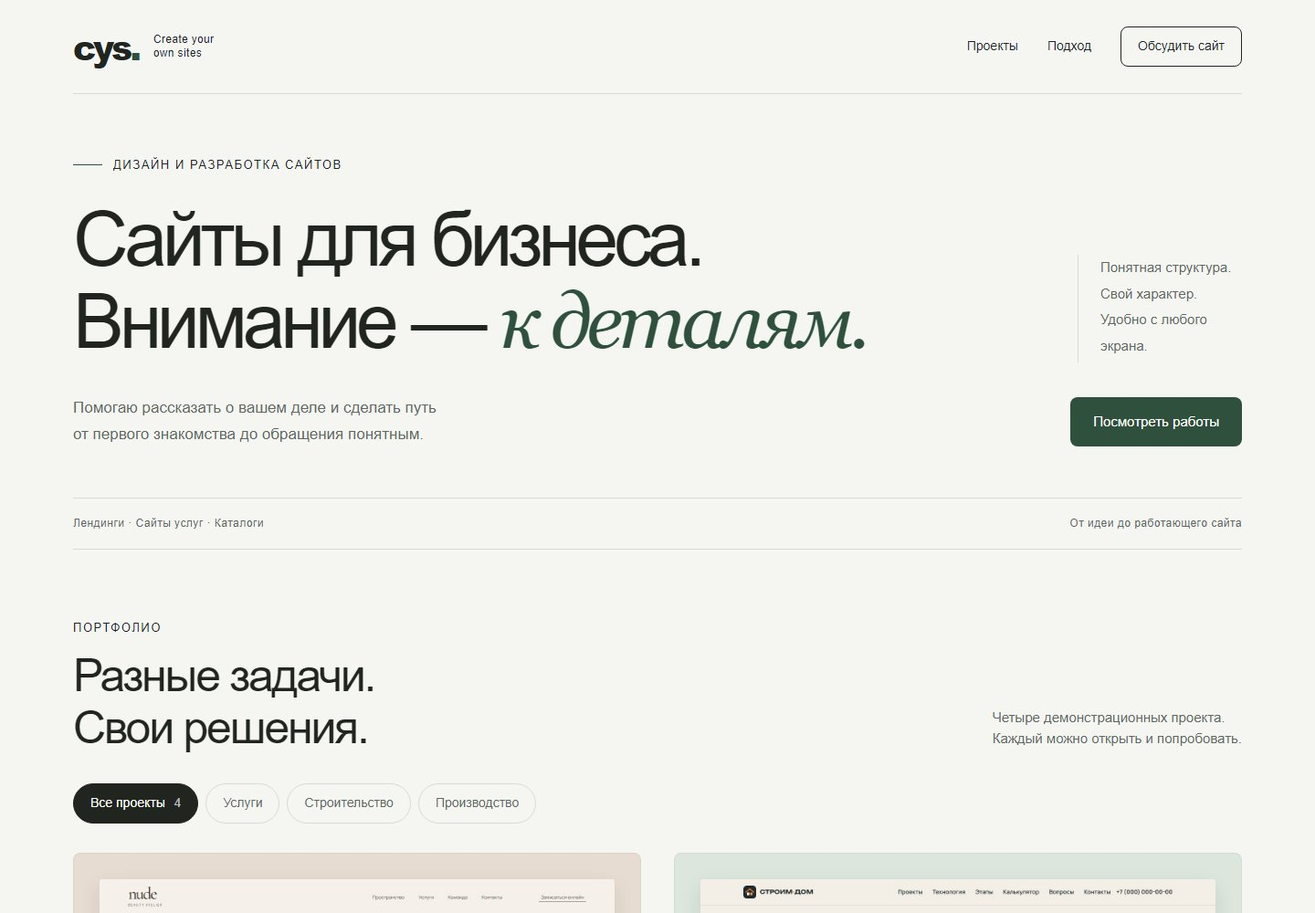
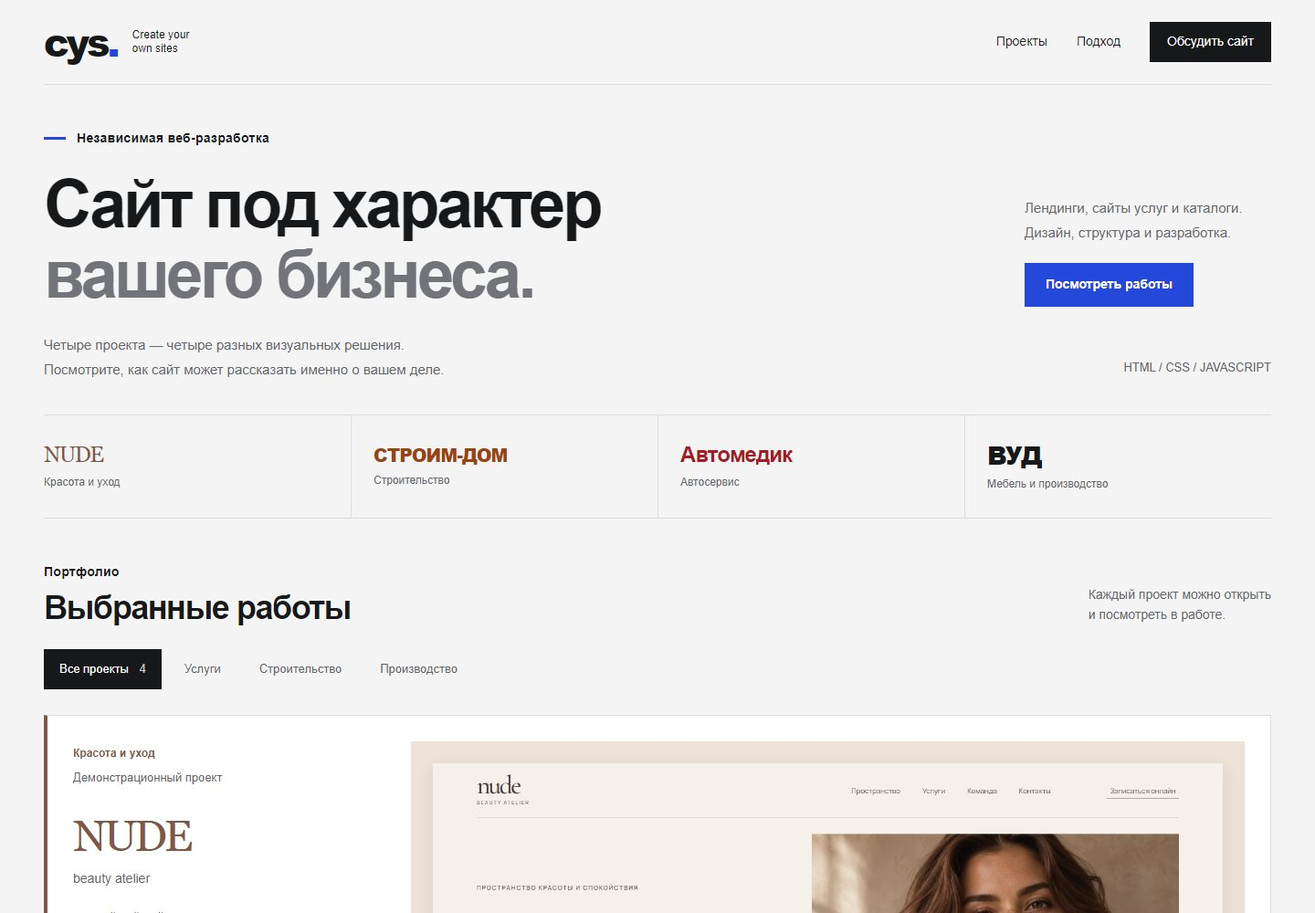
Give each portfolio project a distinct presentation and readable labels

diff --git a/styles.css b/styles.css
@@ -1,5 +1,13 @@
-:root{--paper:#f5f6f2;--ink:#20251f;--muted:#60685e;--line:#d7dcd3;--green:#2e503c;--soft:#e5ebdb;--white:#fff;--serif:Georgia,'Times New Roman',serif;--radius:8px;--space:24px}
-*{box-sizing:border-box}html{scroll-behavior:smooth;scroll-padding-top:24px}body{margin:0;background:var(--paper);color:var(--ink);font-family:Arial,Helvetica,sans-serif;font-size:16px;line-height:1.55;-webkit-font-smoothing:antialiased}a{color:inherit;text-decoration:none}button{font:inherit;cursor:pointer}button,a,summary{-webkit-tap-highlight-color:transparent}button:focus-visible,a:focus-visible,summary:focus-visible{outline:3px solid #457a56;outline-offset:5px}button:disabled{cursor:default}img{display:block;max-width:100%}p,h1,h2,h3{margin:0}em{font-family:var(--serif);font-weight:400}.wrap{width:min(1280px,calc(100% - 112px));margin-inline:auto}.sr-only{position:absolute;width:1px;height:1px;padding:0;margin:-1px;overflow:hidden;clip:rect(0,0,0,0);white-space:nowrap;border:0}.skip-link{position:fixed;z-index:20;top:8px;left:8px;transform:translateY(-150%);padding:12px 20px;background:var(--ink);color:var(--white)}.skip-link:focus{transform:none}.header{display:flex;align-items:center;justify-content:space-between;gap:24px;padding-block:28px;border-bottom:1px solid var(--line)}.brand{display:flex;align-items:center;gap:16px}.brand-mark{font-size:38px;line-height:1;font-weight:800;letter-spacing:-3px}.brand-mark span{color:var(--green)}.brand-name{font-size:12px;line-height:1.25;letter-spacing:.03em}.header nav{display:flex;align-items:center;gap:32px;font-size:14px}.header nav>a{padding-block:12px}.header nav>a:hover{color:var(--green)}.header nav>.nav-contact{padding:10px 18px;border:1px solid var(--ink);border-radius:var(--radius)}.eyebrow{font-size:13px;font-weight:500;letter-spacing:.12em;text-transform:uppercase}.hero{padding-top:68px}.hero>.eyebrow{display:flex;align-items:center;gap:12px}.line{width:32px;height:1px;background:var(--green)}.hero-layout{display:grid;grid-template-columns:minmax(0,1fr) 180px;gap:40px;align-items:end;margin-top:26px}h1{font-size:clamp(48px,5.8vw,84px);line-height:1.08;font-weight:500;letter-spacing:-.06em}h1 em{color:var(--green);letter-spacing:-.055em}.hero-aside{border-left:1px solid var(--line);padding-left:24px;color:var(--muted);font-size:15px;line-height:1.9;padding-bottom:4px}.hero-bottom{display:flex;justify-content:space-between;align-items:center;gap:32px;margin-top:36px}.hero-bottom>p{color:var(--muted);font-size:17px;line-height:1.7}.button{display:inline-flex;align-items:center;justify-content:center;min-height:50px;padding:14px 24px;border-radius:var(--radius);background:var(--green);color:var(--white);font-size:15px;border:1px solid transparent;transition:background .18s,transform .18s;white-space:nowrap}.button:hover{background:#203e2c;transform:translateY(-2px)}.hero-footnote{display:flex;justify-content:space-between;gap:20px;margin-top:54px;padding:18px 0;border-block:1px solid var(--line);color:var(--muted);font-size:12px;letter-spacing:.04em}.projects-section{padding-block:76px 88px}.section-heading{display:flex;align-items:end;justify-content:space-between;gap:32px}.section-heading h2,.approach h2{margin-top:14px;font-size:clamp(34px,3.5vw,50px);line-height:1.14;letter-spacing:-.045em;font-weight:500}.section-heading>p{font-size:15px;color:var(--muted);padding-bottom:5px}.filters{display:flex;gap:8px;flex-wrap:wrap;margin-top:32px;margin-bottom:32px}.filters button{border:1px solid var(--line);border-radius:999px;min-height:44px;padding:9px 18px;color:var(--muted);background:transparent;font-size:14px;transition:background .18s,color .18s}.filters button[aria-pressed=true]{background:var(--ink);border-color:var(--ink);color:var(--white)}.filters button:hover:not([aria-pressed=true]){background:var(--soft);color:var(--ink)}.filters button span{margin-left:6px;opacity:.7}.project-grid{display:grid;grid-template-columns:minmax(0,1fr) minmax(0,1fr);column-gap:36px;row-gap:58px}.project{min-width:0;scroll-margin-top:24px}.project[hidden]{display:none}.preview{position:relative;display:block;padding:28px;border:1px solid #0000000a;border-radius:var(--radius);overflow:hidden;isolation:isolate}.preview img{width:100%;height:auto;aspect-ratio:1.44;object-fit:cover;object-position:top;border-radius:3px;box-shadow:0 8px 22px #1b21151a;transition:transform .35s}.preview:hover img{transform:translateY(-4px)}.preview-nude{background:#e7dcd2}.preview-house{background:#dce6dd}.preview-auto{background:#dfe5ed}.preview-wood{background:#deded7}.preview-label{position:absolute;right:38px;bottom:38px;padding:8px 13px;border-radius:5px;background:var(--white);color:var(--ink);font-size:12px;font-weight:600;box-shadow:0 2px 8px #0000000f;opacity:0;transform:translateY(5px);transition:opacity .2s,transform .2s}.preview:hover .preview-label,.preview:focus-visible .preview-label{opacity:1;transform:none}.project-meta{display:flex;justify-content:space-between;flex-wrap:wrap;gap:4px 10px;color:var(--muted);font-size:12px;margin:20px 0 9px}.project-meta>span:last-child{font-size:11px}.project h3{font-size:30px;font-weight:500;letter-spacing:-.045em;line-height:1.25}.project h3>span{color:var(--muted);font-size:19px;letter-spacing:-.02em;margin-left:6px}.project-description{margin-top:12px;font-size:15px;color:var(--muted);max-width:96%;line-height:1.7}.project-actions{display:flex;align-items:start;gap:26px;margin-top:18px;font-size:14px}.text-link{display:inline-block;white-space:nowrap;padding:5px 0;border-bottom:1px solid var(--ink)}.text-link:hover{color:var(--green);border-color:var(--green)}details{flex:1;min-width:0}summary{cursor:pointer;padding-block:5px;min-height:32px;color:var(--muted);width:fit-content}summary:hover{color:var(--ink)}.project-details{padding-top:12px;font-size:14px;line-height:1.7;color:var(--muted)}.project-details ul{padding-left:20px;margin-block:10px}.tech{font-size:12px;color:var(--green)}.approach{display:grid;grid-template-columns:1fr 1fr;gap:80px;padding-block:60px 88px;border-top:1px solid var(--line)}.approach-intro>p:last-child{margin-top:24px;color:var(--muted);max-width:390px;line-height:1.8}.approach h2 em{color:var(--green)}.approach-list{padding-top:4px}.approach-list>div+div{border-top:1px solid var(--line);margin-top:22px;padding-top:22px}.approach-list h3{font-size:19px;font-weight:500;letter-spacing:-.02em}.approach-list p{margin-top:8px;color:var(--muted);font-size:15px;line-height:1.7;max-width:470px}.contact{background:var(--green);color:var(--white)}.contact-inner{display:grid;grid-template-columns:1fr 1fr;align-items:center;gap:56px;padding-block:64px}.contact .eyebrow{color:#d8e3d5}.contact h2{font-size:clamp(34px,4vw,58px);font-weight:500;line-height:1.15;letter-spacing:-.045em;margin-top:16px}.contact h2 em{color:#e6ecc9}.contact h2+p{color:#e0e7de;font-size:15px;margin-top:22px;line-height:1.7}.contact-actions{min-width:0}.email-link{display:inline-block;font-size:clamp(18px,2.1vw,28px);letter-spacing:-.025em;overflow-wrap:anywhere;line-height:1.5;border-bottom:1px solid #bed2bca6}.email-link:hover{border-color:var(--white)}.contact-buttons{display:flex;align-items:center;flex-wrap:wrap;gap:20px;margin-top:24px}.button-light{background:var(--white);color:var(--green)}.button-light:hover{background:#e7eddc}.copy-button{padding:12px 0;min-height:44px;border:0;border-bottom:1px solid #a4b5a3;background:none;color:var(--white);font-size:14px}.copy-button:hover{border-color:var(--white)}.copy-status{min-height:24px;font-size:13px;margin-top:10px;color:#e7eddc}.footer{display:flex;justify-content:space-between;align-items:center;gap:24px;padding-block:24px;color:var(--muted);font-size:12px}.footer a{padding:10px 0;text-decoration:underline;text-underline-offset:4px}
-@media(min-width:1600px){h1{font-size:90px}}@media(max-width:1050px){.wrap{width:calc(100% - 64px)}.hero-layout{grid-template-columns:1fr}.hero-aside{display:none}.hero{padding-top:48px}.project-grid{gap:44px 24px}.preview{padding:20px}.project-meta{font-size:11px}.project h3{font-size:27px}.project h3 span{font-size:17px}.approach{gap:40px}.contact-inner{gap:32px}.contact-buttons{gap:12px}.button-light{font-size:14px;padding-inline:16px}}
-@media(max-width:700px){.wrap{width:calc(100% - 40px)}.header{padding-block:20px}.brand-mark{font-size:34px}.brand-name{display:none}.header nav{gap:18px;font-size:13px}.header nav>a:nth-child(2){display:none}.header nav>.nav-contact{padding:8px 12px}.hero{padding-top:40px}.hero>.eyebrow{font-size:11px;letter-spacing:.1em}.hero-layout{margin-top:20px}h1{font-size:clamp(39px,7.6vw,54px);letter-spacing:-.055em;line-height:1.13}.hero-bottom{display:block;margin-top:24px}.hero-bottom>p{font-size:15px}.desktop-break{display:none}.hero-bottom .button{margin-top:24px}.hero-footnote{margin-top:36px;font-size:11px;padding-block:14px}.hero-footnote span:last-child{display:none}.projects-section{padding-block:44px 56px}.section-heading{display:block}.section-heading h2,.approach h2{font-size:36px}.section-heading>p{margin-top:16px;font-size:14px}.filters{gap:7px;margin-block:24px}.filters button{font-size:12px;padding:9px 13px}.project-grid{grid-template-columns:1fr;gap:40px}.preview{padding:20px}.project-meta{font-size:12px;margin-top:16px}.project-meta>span:last-child{font-size:11px}.project h3{font-size:28px}.project-description{font-size:15px}.preview-label{display:none}.project-actions{gap:24px}.approach{grid-template-columns:1fr;gap:32px;padding-block:40px 48px}.approach-intro>p:last-child{margin-top:16px;font-size:15px}.approach-list h3{font-size:18px}.contact-inner{grid-template-columns:1fr;padding-block:44px;gap:28px}.contact h2{font-size:42px}.email-link{font-size:clamp(17px,4.9vw,27px)}.contact-buttons{gap:16px}.footer{align-items:start;flex-wrap:wrap;gap:8px 24px;padding-block:20px}.footer p{display:none}.footer a{padding:0}}
+:root{--paper:#f4f4f4;--white:#fff;--ink:#17181a;--muted:#626469;--line:#dcdde0;--blue:#2448da;--label-font:Arial,Helvetica,sans-serif}
+*{box-sizing:border-box}html{scroll-behavior:smooth;scroll-padding-top:24px}body{margin:0;background:var(--paper);color:var(--ink);font:16px/1.55 Arial,Helvetica,sans-serif;-webkit-font-smoothing:antialiased}a{color:inherit;text-decoration:none}button{font:inherit;cursor:pointer}button,a,summary{-webkit-tap-highlight-color:transparent}button:focus-visible,a:focus-visible,summary:focus-visible{outline:3px solid var(--blue);outline-offset:5px}img{display:block;max-width:100%}p,h1,h2,h3{margin:0}.wrap{width:min(1360px,calc(100% - 96px));margin-inline:auto}.sr-only{position:absolute;width:1px;height:1px;padding:0;margin:-1px;overflow:hidden;clip:rect(0,0,0,0);white-space:nowrap;border:0}.skip-link{position:fixed;z-index:20;top:8px;left:8px;transform:translateY(-150%);padding:12px 20px;background:var(--ink);color:var(--white)}.skip-link:focus{transform:none}
+.header{display:flex;align-items:center;justify-content:space-between;gap:24px;padding-block:24px;border-bottom:1px solid var(--line)}.brand{display:flex;align-items:center;gap:16px}.brand-mark{font-size:42px;line-height:1;font-weight:800;letter-spacing:-3px}.brand-mark span{color:var(--blue)}.brand-name{font-size:12px;line-height:1.25}.header nav{display:flex;align-items:center;gap:32px;font-size:14px}.header nav>a{display:inline-flex;align-items:center;min-height:44px}.header nav>a:hover{color:var(--blue)}.header nav>.nav-contact{padding-inline:18px;border:1px solid var(--ink);background:var(--ink);color:var(--white)}.header nav>.nav-contact:hover{background:var(--blue);border-color:var(--blue)}.eyebrow{font:600 14px/1.5 var(--label-font);letter-spacing:.02em;text-transform:none}
+.hero{padding-top:48px}.hero>.eyebrow{display:flex;align-items:center;gap:12px}.line{width:24px;height:3px;background:var(--blue)}.hero-layout{display:grid;grid-template-columns:minmax(0,1fr) 270px;gap:48px;align-items:end;margin-top:24px}h1{font-size:clamp(46px,5.1vw,78px);line-height:1.05;font-weight:700;letter-spacing:-.055em}h1 span{color:#72747a}.hero-aside{padding-bottom:4px}.hero-aside p{color:var(--muted);font-size:15px;line-height:1.8}.hero-aside .button{margin-top:20px}.button{display:inline-flex;align-items:center;justify-content:center;min-height:48px;padding:12px 22px;border:1px solid transparent;background:var(--blue);color:var(--white);font-size:14px;font-weight:600;transition:background .18s}.button:hover{background:#1834a9}.hero-bottom{display:flex;align-items:end;justify-content:space-between;gap:32px;margin-top:24px}.hero-bottom>p{color:var(--muted);font-size:15px;line-height:1.8}.hero-note{color:var(--muted);font:13px/1.5 var(--label-font);padding-bottom:6px}
+.project-index{display:grid;grid-template-columns:repeat(4,minmax(0,1fr));margin-top:36px;border-block:1px solid var(--line)}.project-index a{display:flex;flex-direction:column;justify-content:center;gap:8px;min-height:112px;padding:20px 24px;border-left:1px solid var(--line);transition:background .18s}.project-index a:first-child{border-left:0;padding-left:0}.project-index a:hover{background:var(--white)}.project-index a>span{display:block;font-size:24px;line-height:1.1}.project-index small{color:var(--muted);font-size:12px}.project-index .index-nude>span{font-family:Georgia,serif;letter-spacing:-.06em;color:#805746}.project-index .index-house>span{font-size:20px;font-weight:800;letter-spacing:-.045em;color:#99440e}.project-index .index-auto>span{font-weight:700;letter-spacing:-.04em;color:#a51a25}.project-index .index-wood>span{font-size:28px;font-weight:800;letter-spacing:-.07em}
+.projects-section{padding-block:48px 72px}.section-heading{display:flex;justify-content:space-between;align-items:end;gap:32px}.section-heading h2{margin-top:8px;font-size:36px;line-height:1.15;font-weight:600;letter-spacing:-.04em}.section-heading>p{font-size:14px;color:var(--muted);padding-bottom:2px}.filters{display:flex;flex-wrap:wrap;gap:8px;margin-block:24px 28px}.filters button{min-height:44px;padding:10px 16px;border:1px solid transparent;background:transparent;color:var(--muted);font-size:13px;transition:color .18s,background .18s}.filters button[aria-pressed=true]{background:var(--ink);color:var(--white)}.filters button:hover:not([aria-pressed=true]){background:#e8e9ec;color:var(--ink)}.filters button span{margin-left:8px;color:#c7c8cc}
+.project-grid{display:flex;flex-direction:column;gap:28px}.project{--case-accent:var(--ink);--case-stage:#eee;display:grid;grid-template-columns:minmax(240px,.37fr) minmax(0,1fr);grid-template-rows:auto auto auto 1fr;grid-template-areas:'meta preview' 'title preview' 'description preview' 'actions preview';gap:0 32px;padding:28px;border:1px solid var(--line);border-left:4px solid var(--case-accent);background:var(--white);min-width:0;scroll-margin-top:24px}.project[hidden]{display:none}#nude{--case-accent:#805746;--case-stage:#eee1d8}#stroim-dom{--case-accent:#99440e;--case-stage:#f1e7d8}#avtomedik{--case-accent:#a51a25;--case-stage:#292d33}#wood{--case-accent:#45453e;--case-stage:#ddded6}.preview{grid-area:preview;position:relative;display:block;align-self:start;padding:24px;background:var(--case-stage);overflow:hidden}.preview img{width:100%;height:auto;aspect-ratio:1.44;object-fit:cover;object-position:top;box-shadow:0 5px 18px #00000015;transition:transform .25s}.preview:hover img{transform:translateY(-3px)}.preview-label{position:absolute;bottom:36px;right:36px;padding:10px 14px;background:var(--white);color:var(--ink);font-size:12px;font-weight:600;opacity:0;transition:opacity .18s}.preview:hover .preview-label,.preview:focus-visible .preview-label{opacity:1}
+.project-meta{grid-area:meta;display:flex;flex-direction:column;align-items:start;gap:8px;font-size:12px;color:var(--muted);margin-top:4px}.project-meta span:first-child{color:var(--case-accent);font-weight:600}.project-meta span:last-child{font:13px/1.5 var(--label-font)}.project h3{grid-area:title;margin-top:28px;font-size:clamp(26px,2.6vw,38px);line-height:1.1;letter-spacing:-.045em;font-weight:700;overflow-wrap:anywhere}.project h3>span{display:block;color:var(--muted);font:14px/1.6 Arial,sans-serif;letter-spacing:0;margin-top:8px}#nude h3{font:48px/1.1 Georgia,serif;color:var(--case-accent);letter-spacing:-.065em}#stroim-dom h3{font-size:clamp(22px,2.3vw,34px);font-weight:800}#avtomedik h3{color:var(--case-accent)}#wood h3{font-size:46px;text-transform:uppercase;letter-spacing:-.07em}#wood h3>span{text-transform:none}.project-description{grid-area:description;margin-top:20px;color:var(--muted);font-size:14px;line-height:1.8;max-width:320px}.project-actions{grid-area:actions;display:flex;flex-direction:column;align-items:start;gap:16px;margin-top:24px;font-size:14px}.text-link{display:inline-flex;align-items:center;justify-content:center;min-height:46px;padding:10px 20px;background:var(--ink);color:var(--white);font-size:13px;font-weight:600;transition:background .18s}.text-link:hover{background:var(--case-accent)}details{min-width:0;width:100%}summary{display:list-item;cursor:pointer;padding-block:10px;min-height:44px;color:var(--muted);width:fit-content;font-size:13px}summary:hover{color:var(--ink)}.project-details{padding-top:8px;font-size:13px;line-height:1.75;color:var(--muted)}.project-details ul{padding-left:18px;margin-block:10px}.tech{color:var(--case-accent);font:13px/1.5 var(--label-font)}
+.approach{display:grid;grid-template-columns:1fr 1fr;gap:80px;padding-block:52px 72px;border-top:1px solid var(--line)}.approach h2{margin-top:16px;font-size:clamp(30px,3vw,44px);line-height:1.15;font-weight:600;letter-spacing:-.045em}.approach-intro>p:last-child{color:var(--muted);margin-top:24px;max-width:410px;line-height:1.8;font-size:15px}.approach-list>div+div{margin-top:20px;padding-top:20px;border-top:1px solid var(--line)}.approach-list h3{font-size:18px;font-weight:600;letter-spacing:-.02em}.approach-list p{color:var(--muted);margin-top:8px;font-size:14px;line-height:1.8;max-width:480px}.contact{background:var(--ink);color:var(--white)}.contact-inner{display:grid;grid-template-columns:1fr 1fr;gap:56px;align-items:center;padding-block:64px}.contact .eyebrow{color:#babdc5}.contact h2{margin-top:16px;font-size:clamp(34px,4vw,58px);font-weight:600;line-height:1.08;letter-spacing:-.045em}.contact h2+p{color:#c6c8ce;font-size:14px;line-height:1.8;margin-top:24px}.contact-actions{min-width:0}.email-link{display:inline-block;font-size:clamp(18px,2vw,28px);line-height:1.5;letter-spacing:-.035em;overflow-wrap:anywhere;padding-bottom:6px;border-bottom:1px solid #777a83}.email-link:hover{border-color:var(--white)}.contact-buttons{display:flex;align-items:center;flex-wrap:wrap;gap:20px;margin-top:24px}.button-light{background:var(--white);color:var(--ink)}.button-light:hover{background:#e6e7eb}.copy-button{padding:12px 0;min-height:44px;color:var(--white);border:0;background:transparent;border-bottom:1px solid #777a83;font-size:13px}.copy-button:hover{border-color:var(--white)}.copy-status{min-height:24px;margin-top:10px;font-size:13px;color:#d4d6df}.footer{display:flex;align-items:center;justify-content:space-between;gap:24px;padding-block:24px;color:var(--muted);font-size:12px}.footer a{padding-block:10px;text-decoration:underline;text-underline-offset:4px}
+@media(max-width:1100px){.wrap{width:calc(100% - 64px)}.hero-layout{grid-template-columns:minmax(0,1fr) 225px;gap:32px}h1{font-size:54px}.hero-aside p{font-size:14px}.project{grid-template-columns:240px minmax(0,1fr);padding:24px;gap:0 24px}.preview{padding:16px}.project h3{margin-top:20px}.project-description{font-size:13px;margin-top:16px}.project-actions{margin-top:20px}.project-index a{padding-inline:18px}.project-index .index-house>span{font-size:17px}.approach{gap:40px}}
+@media(max-width:800px){.hero-layout{grid-template-columns:1fr;gap:24px}.hero-aside{display:flex;justify-content:space-between;align-items:center;gap:24px}.hero-aside .button{margin-top:0}.hero-note{display:none}.project-index{grid-template-columns:repeat(2,minmax(0,1fr))}.project-index a{min-height:100px;border-left:0;padding-left:20px}.project-index a:first-child{padding-left:20px}.project-index a:nth-child(even){border-left:1px solid var(--line)}.project-index a:nth-child(n+3){border-top:1px solid var(--line)}.project{grid-template-columns:minmax(0,1fr);grid-template-rows:auto;grid-template-areas:'preview' 'meta' 'title' 'description' 'actions';padding:24px}.preview{padding:24px}.project-meta{flex-direction:row;justify-content:space-between;flex-wrap:wrap;gap:6px 16px;margin-top:24px}.project h3{margin-top:16px;font-size:34px}#stroim-dom h3{font-size:30px}.project h3>span{display:inline;margin-left:10px}.project-description{font-size:15px;max-width:100%}.project-actions{flex-direction:row;gap:24px}details{width:auto;flex:1}.text-link{flex-shrink:0}.approach{gap:32px}.contact-inner{grid-template-columns:1fr;gap:32px}}
+@media(max-width:560px){.wrap{width:calc(100% - 32px)}.header{padding-block:18px}.brand-mark{font-size:36px}.brand-name{display:none}.header nav{gap:18px;font-size:12px}.header nav>a:nth-child(2){display:none}.header nav>.nav-contact{padding-inline:12px}.hero{padding-top:32px}.hero .eyebrow{font-size:14px;letter-spacing:0}.hero-layout{margin-top:20px;gap:20px}h1{font-size:clamp(34px,8.7vw,48px);line-height:1.07}.hero-aside{display:block}.hero-aside p{font-size:14px}.hero-aside .button{margin-top:20px}.hero-bottom{margin-top:20px}.hero-bottom>p{font-size:14px}.desktop-break{display:none}.project-index{margin-top:28px}.project-index a{gap:10px;min-height:98px;padding:16px}.project-index a:first-child{padding-left:16px}.project-index a>span{font-size:23px}.project-index .index-house>span{font-size:clamp(14px,4vw,18px)}.project-index .index-auto>span{font-size:21px}.project-index small{font-size:12px}.projects-section{padding-block:32px 44px}.section-heading{display:block}.section-heading h2{font-size:32px}.section-heading>p{margin-top:12px;font-size:14px}.filters{gap:4px;margin-block:20px}.filters button{font-size:12px;padding-inline:12px}.project-grid{gap:20px}.project{padding:16px;border-left-width:3px}.preview{padding:12px}.preview-label{display:none}.project-meta{margin-top:20px}.project-meta span:last-child{font-size:13px}.project h3{font-size:30px}#nude h3{font-size:40px}#stroim-dom h3{font-size:27px}#wood h3{font-size:40px}.project h3>span{display:block;margin-left:0;margin-top:5px;font-size:13px}.project-description{font-size:14px;margin-top:14px}.project-actions{margin-top:18px;gap:18px}.text-link{padding-inline:16px;font-size:12px}summary{font-size:12px}.approach{grid-template-columns:1fr;gap:28px;padding-block:36px 44px}.approach h2{font-size:32px}.approach-intro>p:last-child{font-size:14px;margin-top:16px}.contact-inner{padding-block:44px;gap:28px}.contact h2{font-size:42px}.email-link{font-size:clamp(16px,4.9vw,25px)}.contact-buttons{gap:16px}.contact-buttons .button{padding-inline:16px;font-size:13px}.footer{align-items:start;flex-wrap:wrap;gap:12px 24px;padding-block:20px}.footer p{display:none}.footer a{padding:0}}
 @media(prefers-reduced-motion:reduce){html{scroll-behavior:auto}*,*::before,*::after{transition:none!important;animation:none!important}}

diff --git a/index.html b/index.html
@@ -3,7 +3,7 @@
 <head>
   <meta charset="utf-8">
   <meta name="viewport" content="width=device-width, initial-scale=1">
-  <meta name="theme-color" content="#f5f6f2">
+  <meta name="theme-color" content="#f4f4f4">
   <meta name="description" content="Create Your Own Sites — дизайн и разработка сайтов для бизнеса. Четыре проекта: красота, строительство, автосервис и мебель. Посмотрите работающие демо и обсудим ваш сайт.">
   <meta property="og:title" content="Create Your Own Sites — сайты для бизнеса">
   <meta property="og:description" content="Четыре проекта. Четыре разных характера. Дизайн и разработка сайтов с вниманием к деталям.">
@@ -23,13 +23,13 @@
   </header>
   <main id="main">
     <section class="hero wrap" id="top" aria-labelledby="hero-title">
-      <p class="eyebrow"><span class="line" aria-hidden="true"></span> Дизайн и разработка сайтов</p>
-      <div class="hero-layout"><h1 id="hero-title">Сайты для бизнеса.<br>Внимание — <em>к деталям.</em></h1><p class="hero-aside">Понятная структура.<br>Свой характер.<br>Удобно с любого экрана.</p></div>
-      <div class="hero-bottom"><p>Помогаю рассказать о вашем деле и сделать путь<br class="desktop-break"> от первого знакомства до обращения понятным.</p><a class="button" href="#projects">Посмотреть работы</a></div>
-      <div class="hero-footnote"><span>Лендинги · Сайты услуг · Каталоги</span><span>От идеи до работающего сайта</span></div>
+      <p class="eyebrow"><span class="line" aria-hidden="true"></span> Независимая веб-разработка</p>
+      <div class="hero-layout"><h1 id="hero-title">Сайт под характер<br><span>вашего бизнеса.</span></h1><div class="hero-aside"><p>Лендинги, сайты услуг и каталоги.<br>Дизайн, структура и разработка.</p><a class="button" href="#projects">Посмотреть работы</a></div></div>
+      <div class="hero-bottom"><p>Четыре проекта — четыре разных визуальных решения.<br class="desktop-break"> Посмотрите, как сайт может рассказать именно о вашем деле.</p><span class="hero-note">HTML / CSS / JAVASCRIPT</span></div>
+      <nav class="project-index" aria-label="Быстрый переход к проектам"><a class="index-nude" href="#nude"><span>NUDE</span><small>Красота и уход</small></a><a class="index-house" href="#stroim-dom"><span>СТРОИМ-ДОМ</span><small>Строительство</small></a><a class="index-auto" href="#avtomedik"><span>Автомедик</span><small>Автосервис</small></a><a class="index-wood" href="#wood"><span>ВУД</span><small>Мебель и производство</small></a></nav>
     </section>
     <section class="projects-section wrap" id="projects" aria-labelledby="projects-title">
-      <div class="section-heading"><div><p class="eyebrow">Портфолио</p><h2 id="projects-title">Разные задачи.<br>Свои решения.</h2></div><p>Четыре демонстрационных проекта.<br>Каждый можно открыть и попробовать.</p></div>
+      <div class="section-heading"><div><p class="eyebrow">Портфолио</p><h2 id="projects-title">Выбранные работы</h2></div><p>Каждый проект можно открыть<br>и посмотреть в работе.</p></div>
       <div class="filters" role="group" aria-label="Фильтр проектов">
         <button type="button" data-filter="all" aria-pressed="true">Все проекты <span>4</span></button>
         <button type="button" data-filter="services" aria-pressed="false">Услуги</button>
@@ -69,10 +69,10 @@
       </div>
     </section>
     <section class="approach wrap" id="approach" aria-labelledby="approach-title">
-      <div class="approach-intro"><p class="eyebrow">Подход к работе</p><h2 id="approach-title">Красиво — это важно.<br><em>Понятно — тоже.</em></h2><p>Делаю сайты, в которых дизайн помогает увидеть главное: ваши услуги, продукт и способ связаться.</p></div>
+      <div class="approach-intro"><p class="eyebrow">Подход к работе</p><h2 id="approach-title">Начинаем с бизнеса.<br>Доходим до деталей.</h2><p>У каждого проекта своя аудитория, задачи и визуальный язык. От этого отталкиваюсь в структуре и дизайне.</p></div>
       <div class="approach-list"><div><h3>Начинаем с задачи</h3><p>Обсуждаем аудиторию, содержание и то, какое действие должен совершить посетитель.</p></div><div><h3>Собираем целую картину</h3><p>Продумываем структуру и визуальный стиль. Проверяем, удобно ли читать и пользоваться сайтом.</p></div><div><h3>Готовим к запуску</h3><p>Адаптируем страницы под разные экраны, проверяем ссылки и согласуем подключение форм.</p></div></div>
     </section>
-    <section class="contact" id="contact" aria-labelledby="contact-title"><div class="wrap contact-inner"><div><p class="eyebrow">Есть идея для сайта?</p><h2 id="contact-title">Давайте покажем<br>ваш бизнес <em>лучше.</em></h2><p>Напишите, чем вы занимаетесь и какой сайт нужен.<br>Обсудим задачу, состав работ и следующий шаг.</p></div><div class="contact-actions"><a class="email-link" href="mailto:createyourownsites@gmail.com">createyourownsites@gmail.com</a><div class="contact-buttons"><a class="button button-light" href="mailto:createyourownsites@gmail.com?subject=Обсудить%20сайт">Написать на почту</a><button class="copy-button" id="copy-email" type="button">Скопировать адрес</button></div><p class="copy-status" id="copy-status" role="status" aria-live="polite"></p></div></div></section>
+    <section class="contact" id="contact" aria-labelledby="contact-title"><div class="wrap contact-inner"><div><p class="eyebrow">Следующий проект — ваш?</p><h2 id="contact-title">Расскажите,<br>что вы создаёте.</h2><p>Напишите, чем вы занимаетесь и какой сайт нужен.<br>Обсудим задачу, состав работ и следующий шаг.</p></div><div class="contact-actions"><a class="email-link" href="mailto:createyourownsites@gmail.com">createyourownsites@gmail.com</a><div class="contact-buttons"><a class="button button-light" href="mailto:createyourownsites@gmail.com?subject=Обсудить%20сайт">Написать на почту</a><button class="copy-button" id="copy-email" type="button">Скопировать адрес</button></div><p class="copy-status" id="copy-status" role="status" aria-live="polite"></p></div></div></section>
   </main>
   <footer class="footer wrap"><span>Create Your Own Sites · 2026</span><p>Дизайн и разработка сайтов</p><a href="https://github.com/createyourownsites-glitch" target="_blank" rel="noopener">GitHub</a></footer>
 </body>

diff --git a/script.js b/script.js
@@ -12,7 +12,11 @@ function filterProjects(category) {
 for (const button of filters) button.addEventListener('click', () => filterProjects(button.dataset.filter));
 function revealLinkedProject() {
   const id = location.hash.slice(1);
-  if (projects.some(project => project.id === id)) filterProjects('all');
+  const project = projects.find(project => project.id === id);
+  if (project) {
+    filterProjects('all');
+    requestAnimationFrame(() => project.scrollIntoView({block:'start'}));
+  }
 }
 window.addEventListener('hashchange', revealLinkedProject);
 revealLinkedProject();
